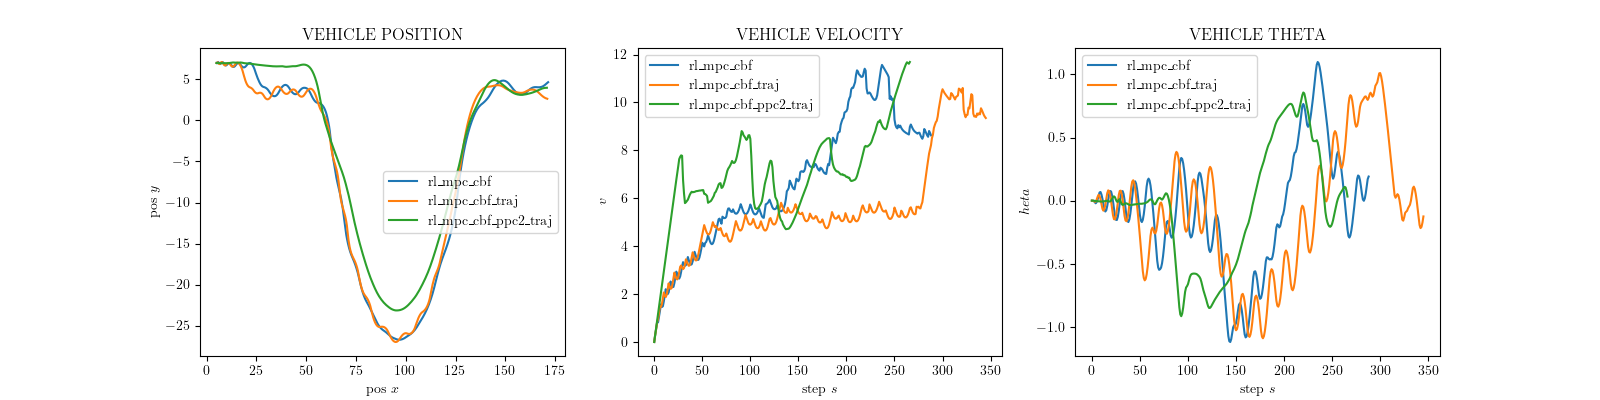
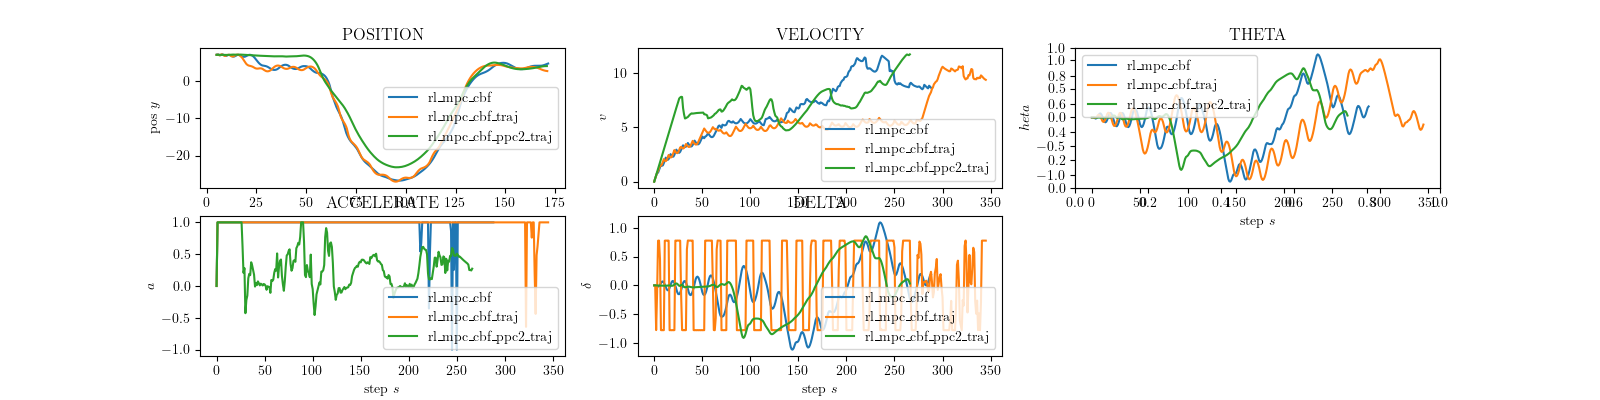
update file

diff --git a/dp_single_version2/plots.py b/dp_single_version2/plots.py
@@ -54,9 +54,12 @@ class Ploter:
             dict(method_name='rl_mpc_cbf_traj'),
             dict(method_name='rl_mpc_cbf_ppc2_traj'),
         ]
-        _ax1 = self._fig.add_subplot(1, 3, 1)
-        _ax2 = self._fig.add_subplot(1, 3, 2)
-        _ax3 = self._fig.add_subplot(1, 3, 3)
+        _ax1 = self._fig.add_subplot(2, 3, 1)
+        _ax2 = self._fig.add_subplot(2, 3, 2)
+        _ax3 = self._fig.add_subplot(2, 3, 3)
+        _ax3 = self._fig.add_subplot(2, 3, 3)
+        _ax4 = self._fig.add_subplot(2, 3, 4)
+        _ax5 = self._fig.add_subplot(2, 3, 5)
         for idx, info in enumerate(method_infos):
             method_name: str = info['method_name']
             data_path: str = os.path.join(self._path_root, method_name, 'phsical_state.txt')
@@ -64,18 +67,14 @@ class Ploter:
             _ax1.plot(data[:, 0: 1], data[:, 1: 2], label=str(info['method_name']))
             _ax2.plot(data[:, 2: 3], label=str(info['method_name']))
             _ax3.plot(data[:, 3: 4], label=str(info['method_name']))
+            _ax4.plot(data[:, 4: 5], label=str(info['method_name']))
+            _ax5.plot(data[:, 5: 6], label=str(info['method_name']))
         
-        _ax1.set_xlabel('pos $x$'); _ax1.set_ylabel('pos $y$')
-        _ax1.set_title('VEHICLE POSITION')
-        _ax1.legend()
-
-        _ax2.set_xlabel('step $s$'); _ax2.set_ylabel('$v$')
-        _ax2.set_title('VEHICLE VELOCITY')
-        _ax2.legend()
-    
-        _ax3.set_xlabel('step $s$'); _ax3.set_ylabel('$\theta$')
-        _ax3.set_title('VEHICLE THETA')
-        _ax3.legend()
+        _ax1.set_xlabel('pos $x$'); _ax1.set_ylabel('pos $y$'); _ax1.set_title('POSITION');   _ax1.legend()
+        _ax2.set_xlabel('step $s$'); _ax2.set_ylabel('$v$'); _ax2.set_title('VELOCITY');   _ax2.legend()
+        _ax3.set_xlabel('step $s$'); _ax3.set_ylabel('$\theta$'); _ax3.set_title('THETA');      _ax3.legend()
+        _ax4.set_xlabel('step $s$'); _ax4.set_ylabel('$a$'); _ax4.set_title('ACCELERATE'); _ax4.legend()
+        _ax5.set_xlabel('step $s$'); _ax5.set_ylabel('$\delta$'); _ax5.set_title('DELTA');      _ax5.legend()
 
     def _plot_reward_avg_group(self, ax: Axes, data_infos: List[Dict]) -> List[ndarray]:
         N: int = float('inf')
